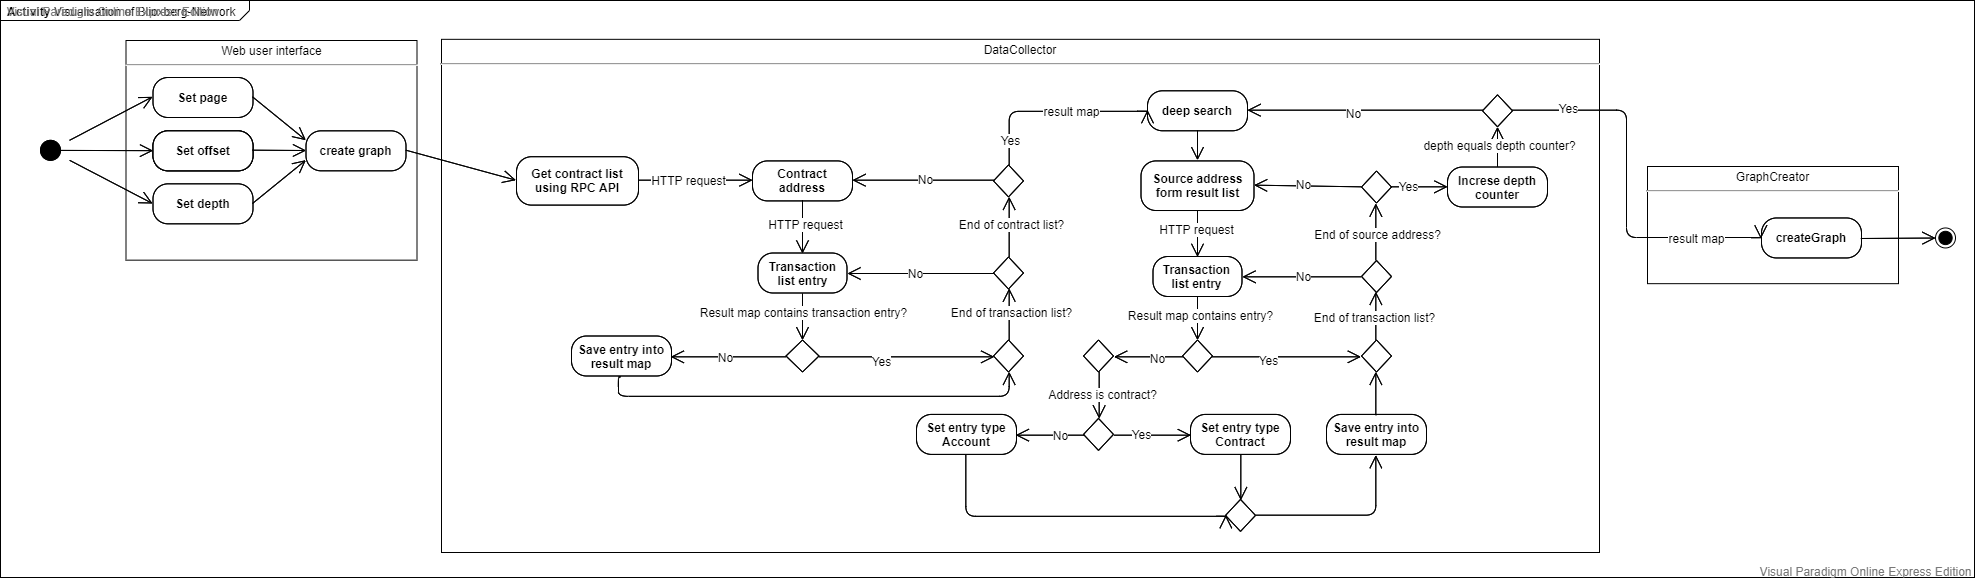
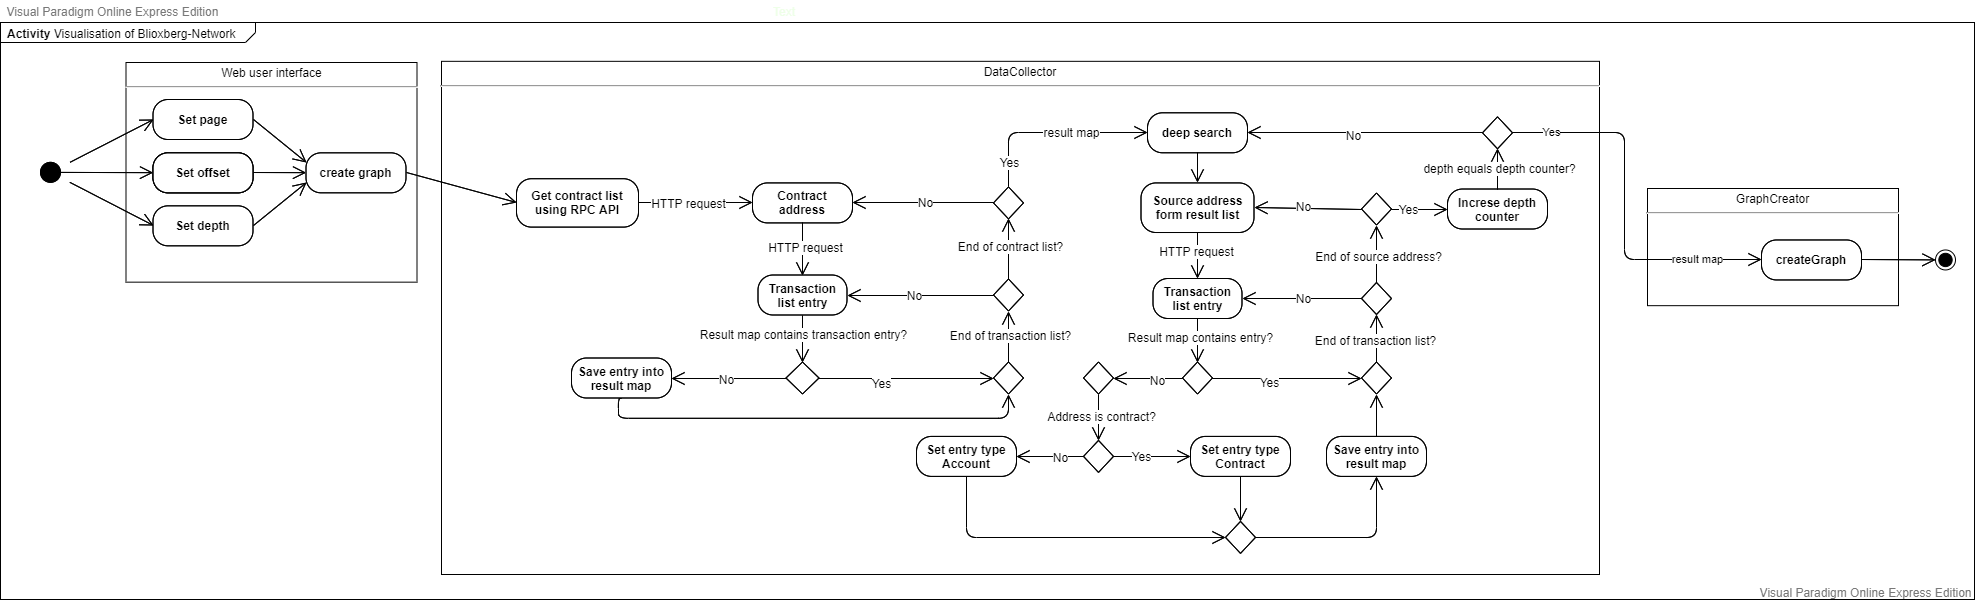
Added contract marker

diff --git a/src/modules/DataCollector.js b/src/modules/DataCollector.js
@@ -1,4 +1,5 @@
 import React from 'react';
+import web3 from 'web3';
 
 class DataCollector extends React.Component {
 
@@ -140,8 +141,8 @@ class DataCollector extends React.Component {
                         {
                             source: array[i].from,
                             target: array[i].to,
-                            sourceType: (await this.isVerifiedContract(array[i].from) ? "Contract" : "Account"),
-                            targetType: (await this.isVerifiedContract(array[i].to) ? "Contract" : "Account")
+                            sourceType: (await this.isContract(array[i].from) ? "Contract" : "Account"),
+                            targetType: (await this.isContract(array[i].to) ? "Contract" : "Account")
                         }
                     );
                     this.tempMap.set(
@@ -149,8 +150,8 @@ class DataCollector extends React.Component {
                         {
                             source: array[i].from,
                             target: array[i].to,
-                            sourceType: (await this.isVerifiedContract(array[i].from) ? "Contract" : "Account"),
-                            targetType: (await this.isVerifiedContract(array[i].to) ? "Contract" : "Account")
+                            sourceType: (await this.isContract(array[i].from) ? "Contract" : "Account"),
+                            targetType: (await this.isContract(array[i].to) ? "Contract" : "Account")
                         }
                     );
                     console.log("            Transaction entry number " + addCounter + " added.");
@@ -171,17 +172,16 @@ class DataCollector extends React.Component {
         console.log("---------------------------");
     }
 
-    async isVerifiedContract(address) {
+    async isContract(address) {
 
-        let isContract = false;
+        let isContract = true;
 
-        let url = "https://blockexplorer.bloxberg.org/api/api?module=contract&action=getsourcecode&address=" + address;
-        let result = await fetch(url).then(json => json.json());
+        const Web3 = require('web3');
+        const web3 = new Web3(new Web3.providers.HttpProvider('https://core.bloxberg.org/'));
+        let result = await web3.eth.getCode(address);
 
-        let contractSourceCode = result.result[0].SourceCode;
-
-        if (contractSourceCode) {
-            isContract = true;
+        if(result === "0x") {
+            isContract = false;
         }
 
         return isContract;

diff --git a/src/App.js b/src/App.js
@@ -42,7 +42,7 @@ class App extends Component {
           <h1 className="title">Visualisation of Bloxberg-Network</h1>
         </div>
         <div id="site_informaiton">
-          <p>This website will produce a force directed d3 graph that will visualizise the Bloxberg Network by using the <a href="https://blockexplorer.bloxberg.org/api_docs">Bloxberg RPC API</a>.</p>
+          <p>This website will produce a force directed d3 graph that will visualizise the Bloxberg Network by using the <a href="https://blockexplorer.bloxberg.org/api_docs" target="_blank">Bloxberg RPC API</a> and the <a href="https://web3js.readthedocs.io/en/v1.3.0/" target="_blank">Web3</a> framework for JavaScript.</p>
         </div>
         <div id="values_informaiton">
           <p id="text">

diff --git a/README.md b/README.md
@@ -1,5 +1,5 @@
 # Visualisation of Bloxberg-Network
-This website will produce a force directed d3 graph that will visualizise the Bloxberg Network by using the Bloxberg RPC API.
+This website will produce a force directed d3 graph that will visualizise the Bloxberg Network by using the [Bloxberg RPC API](https://blockexplorer.bloxberg.org/api_docs) and the [Web3](https://web3js.readthedocs.io/en/v1.3.0/) framework for JavaScript.
 
 ### page
 Page represents the page number to be used for pagination.
@@ -11,7 +11,7 @@ Offset represents the maximum number of records to return when paginating.
 Depth represents how deep the http requests will search into to network.
 
 ## Software development
-The UML diagrams below shows the processes on Visualisation of Bloxberg-Network website.
+The UML diagrams below shows the processes for visualisation of Bloxberg-Network website.
 
 ### UseCase diagram
 ![UseCase diagram](https://github.com/internet-sicherheit/visualisation_of_bloxberg_network/blob/data_model/src/modules/docs/UseCaseBloxberg.png)
